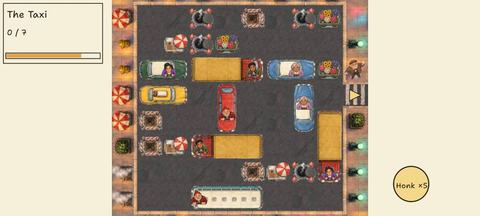
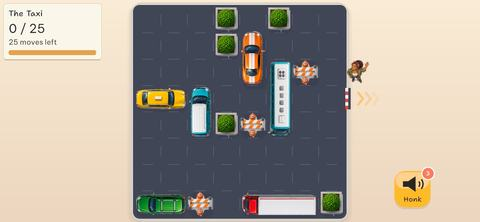
Gridlock frame: the Toy Diorama redesign, no drivers
frame-gridlock is now the Medium mid-drag capture at 1169 en from game
main's 2026-10-26-gridlock-redesign (98a97c071). Alt text, image height
and the /minigames/ blurb follow the new board.

diff --git a/minigames/index.html b/minigames/index.html
@@ -101,12 +101,12 @@
       <ul class="shots games">
         <li id="gridlock"><figure class="shot">
           <div class="shot-frame wide">
-            <picture><source type="image/avif" srcset="../img/frame-gridlock-480.avif 480w, ../img/frame-gridlock-960.avif 960w" sizes="(min-width: 48rem) 34rem, 100vw"><source type="image/webp" srcset="../img/frame-gridlock-480.webp 480w, ../img/frame-gridlock-960.webp 960w" sizes="(min-width: 48rem) 34rem, 100vw"><img srcset="../img/frame-gridlock-480.jpg 480w, ../img/frame-gridlock-960.jpg 960w" sizes="(min-width: 48rem) 34rem, 100vw" src="../img/frame-gridlock-960.jpg" width="960" height="432" alt="The Gridlock board: a top-down New York intersection jammed with cars, a van and a bus, the yellow taxi boxed in, and the exit arrow on the right" loading="lazy" decoding="async"></picture>
+            <picture><source type="image/avif" srcset="../img/frame-gridlock-480.avif 480w, ../img/frame-gridlock-960.avif 960w" sizes="(min-width: 48rem) 34rem, 100vw"><source type="image/webp" srcset="../img/frame-gridlock-480.webp 480w, ../img/frame-gridlock-960.webp 960w" sizes="(min-width: 48rem) 34rem, 100vw"><img srcset="../img/frame-gridlock-480.jpg 480w, ../img/frame-gridlock-960.jpg 960w" sizes="(min-width: 48rem) 34rem, 100vw" src="../img/frame-gridlock-960.jpg" width="960" height="443" alt="The Gridlock board: glossy toy cars, a van, a bus and a truck jam an asphalt block between planters and barriers, the yellow taxi boxed in on the left and the striped exit gate on the right" loading="lazy" decoding="async"></picture>
           </div>
           <figcaption>Gridlock</figcaption>
         </figure>
         <p class="game-meta"><a href="../cities/new-york/">New York</a> &middot; The Taxi</p>
-        <p>A traffic jam on a paper intersection. Slide the cars, vans and trucks along their lanes, or tap one to send it as far as it goes, until the yellow taxi has a clear road to the curb. A New Yorker is waiting there to hail it.</p></li>
+        <p>A traffic jam of toy cars on a New York block. Slide the cars, vans, buses and trucks along their lanes, around planters and barriers, or tap one to send it as far as it goes, until the yellow taxi has a clear road to the gate. A New Yorker is waiting there to hail it.</p></li>
         <li id="neonflow"><figure class="shot">
           <div class="shot-frame wide">
             <picture><source type="image/avif" srcset="../img/frame-neonflow-480.avif 480w, ../img/frame-neonflow-900.avif 900w" sizes="(min-width: 48rem) 34rem, 100vw"><source type="image/webp" srcset="../img/frame-neonflow-480.webp 480w, ../img/frame-neonflow-900.webp 900w" sizes="(min-width: 48rem) 34rem, 100vw"><img srcset="../img/frame-neonflow-480.jpg 480w, ../img/frame-neonflow-900.jpg 900w" sizes="(min-width: 48rem) 34rem, 100vw" src="../img/frame-neonflow-900.jpg" width="900" height="405" alt="Neon Flow level 4: glowing green, blue and orange tubes join pairs of coloured ends on a dark blue board, beside the steamed-bun sign they light" loading="lazy" decoding="async"></picture>

diff --git a/index.html b/index.html
@@ -803,7 +803,7 @@
       <p class="lede">In New York, Hong Kong, Barcelona, Toronto and Ho Chi Minh City the keeper asks for a hand: solve its puzzle to get past, and it thanks you. Each game then joins the Minigames page, with 30 levels, up to three stars a level and a ranking.</p>
       <ul class="shots">
         <li><a href="minigames/#gridlock"><figure class="shot">
-          <div class="shot-frame wide"><picture><source type="image/avif" srcset="img/frame-gridlock-480.avif 480w, img/frame-gridlock-960.avif 960w" sizes="(min-width: 48rem) 34rem, 100vw"><source type="image/webp" srcset="img/frame-gridlock-480.webp 480w, img/frame-gridlock-960.webp 960w" sizes="(min-width: 48rem) 34rem, 100vw"><img srcset="img/frame-gridlock-480.jpg 480w, img/frame-gridlock-960.jpg 960w" sizes="(min-width: 48rem) 34rem, 100vw" src="img/frame-gridlock-960.jpg" width="960" height="432" alt="The Gridlock board: a New York intersection jammed with cars, a van and a bus, the yellow taxi boxed in" loading="lazy" decoding="async"></picture></div>
+          <div class="shot-frame wide"><picture><source type="image/avif" srcset="img/frame-gridlock-480.avif 480w, img/frame-gridlock-960.avif 960w" sizes="(min-width: 48rem) 34rem, 100vw"><source type="image/webp" srcset="img/frame-gridlock-480.webp 480w, img/frame-gridlock-960.webp 960w" sizes="(min-width: 48rem) 34rem, 100vw"><img srcset="img/frame-gridlock-480.jpg 480w, img/frame-gridlock-960.jpg 960w" sizes="(min-width: 48rem) 34rem, 100vw" src="img/frame-gridlock-960.jpg" width="960" height="443" alt="The Gridlock board: glossy toy cars, a van and a bus jam a city block, the yellow taxi boxed in" loading="lazy" decoding="async"></picture></div>
           <figcaption>Gridlock, New York</figcaption>
         </figure></a></li>
         <li><a href="minigames/#neonflow"><figure class="shot">

diff --git a/tools/art.py b/tools/art.py
@@ -155,7 +155,7 @@ FRAMES = [
     ('tally', '25-1041-phone/paris-stage2-tally.jpg', None),
     ('resident', '23-paris-ny-journey/12-paris-card-before-ny-emile-talk.png', None),
     ('trail', '25-stage-trail/card-s2-en@1169.jpg', (0, 546, 1169, 1086)),
-    ('gridlock', '25-1040-minigames/gridlock-hard-honk.jpg', None),
+    ('gridlock', '26-gridlock-redesign/build-medium-1b-drag-1169-en.jpg', None),
     ('neonflow', '25-1041-phone/neonflow-l4-play.jpg', None),
     ('paradeline', '25-1040-minigames/paradeline-easy.jpg', None),
     ('rink', '25-1041-phone/rink-l4.jpg', None),

diff --git a/README.md b/README.md
@@ -42,7 +42,7 @@ keepers of the twenty-one shipped cities, each on a strip of its city's painting
 `img/` and `brand/`, so re-run it after the game's art changes rather than editing images by hand. Each image is exported at the size its slot needs, as AVIF and WebP, with a JPEG
 (paintings) or PNG (cut-out keepers) fallback for browsers that take neither.
 The gameplay frames (`img/frame-*`, `FRAMES` in `tools/art.py`) are cropped from captures in the game's `docs/validation/` on origin/main; pick captures without debug overlays.
-Pending: once the Gridlock redesign (Toy Diorama, no drivers) lands in the game, swap `frame-gridlock` for the new look on `/minigames/` and the home page.
+`frame-gridlock` is the Toy Diorama redesign (no drivers), the Medium mid-drag capture at 1169 en.
 
 "In the game" shows the five 1.9.0 Play captures from `docs/store/google-play/1.9.0/en-US/`, caption
 band cropped, at 800 and 1600 px. `img/shot-paris-*` (business.html) is a frozen 1.3 export.
